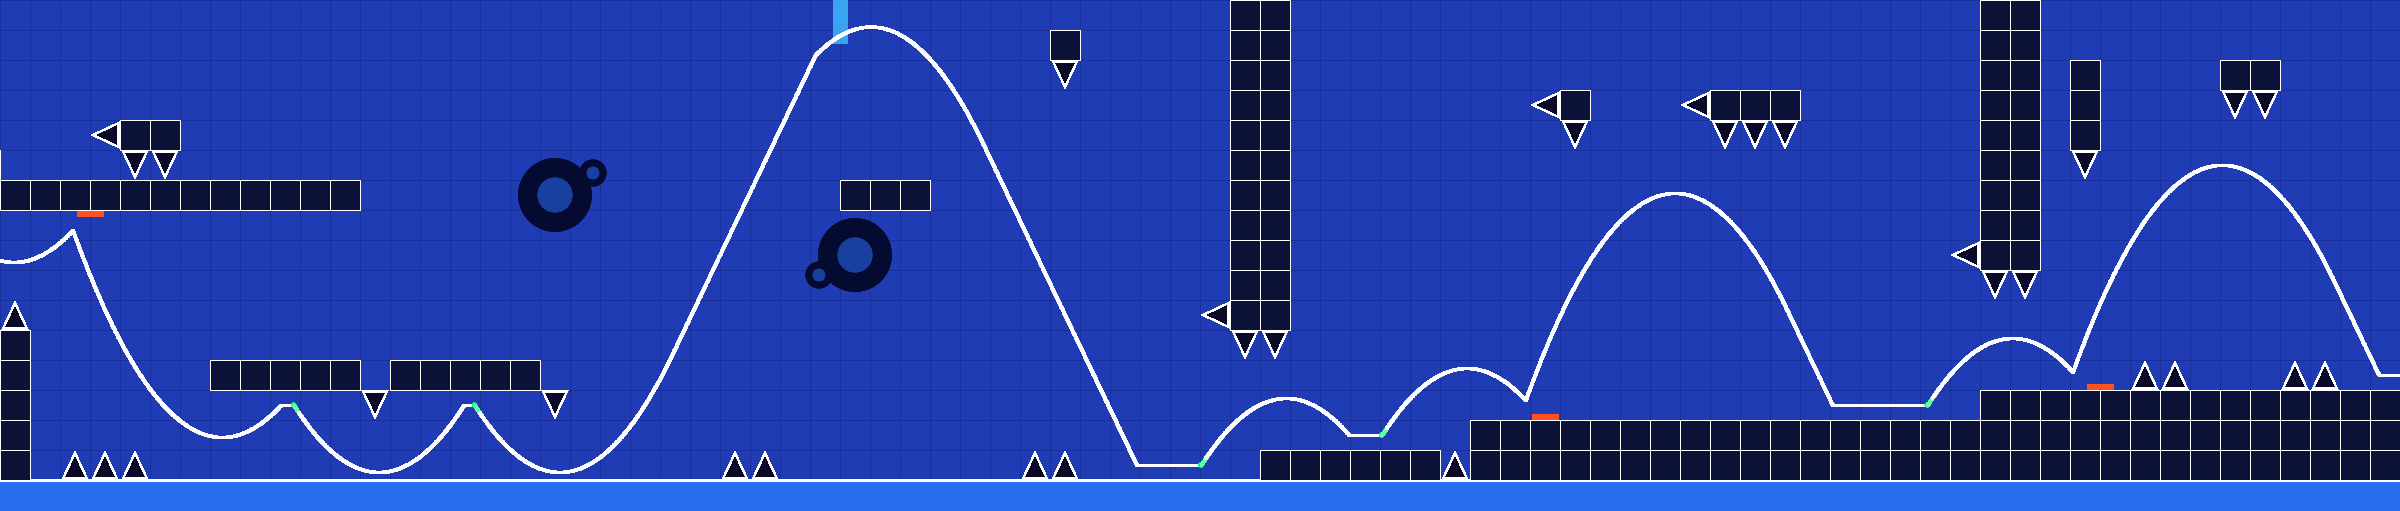
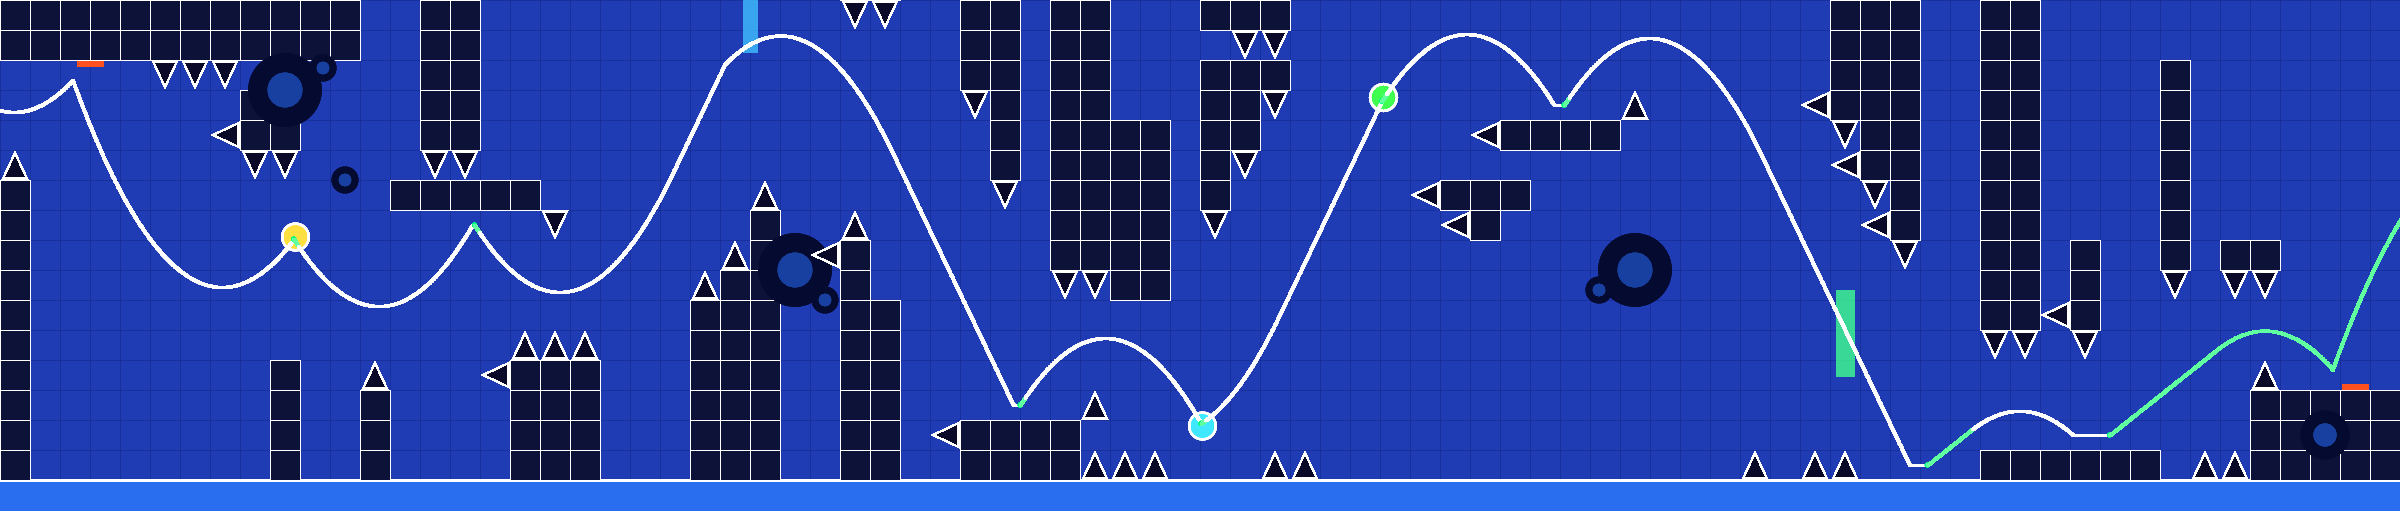
Harder and tighter, like the reference layouts
- walls that follow the path: pillars hanging from the top and rising from the floor, broken
  into 1-3 wide columns with gaps, each ending right at the reserved space with a spike tip
- timing windows per difficulty about 25% tighter; automatic difficulty around Insane to Easy
  Demon (was Harder)
- saws may cut into walls but are never buried in them
- gallery regenerated (14 levels, all beatable)

Claude-Session: https://claude.ai/code/session_01KAvSEZ8o97cfyu2hypAf3n

diff --git a/core/src/gen/structures.cpp b/core/src/gen/structures.cpp
@@ -141,6 +141,7 @@ private:
     bool tryKill(size_t clickIndex, const std::vector<Sample>& skip, const std::vector<bot::InputEvent>& ev, int horizon);
     void frame();
     void clusters();
+    void walls();
     void edgeSpikes();
     // spikes along a run of free cells (same row, consecutive columns): groups of 1-3 with gaps,
     // as layouts place them (never a long identical row)
@@ -236,6 +237,8 @@ bool Structurer::hazardFree(const LevelObject& o) const {
     if (so.kind == level::Kind::Saw) hh = hw;
     Box b{so.x - hw, so.y - hh, so.x + hw, so.y + hh};
     if (m_env.hits(b, m_margin + 1)) return false;
+    // a saw may cut into a wall, but its centre stays in the open (not buried in the blocks)
+    if (so.kind == level::Kind::Saw && m_res.cells.filled(int(std::floor(so.x / kCell)), int(std::floor(so.y / kCell)))) return false;
     // keep the path's orbs, pads and portals readable
     for (auto& po : m_path.objects)
         if (std::fabs(po.o.x - o.x) < 36 && std::fabs(po.o.y - o.y) < 36) return false;
@@ -516,6 +519,70 @@ void Structurer::clusters() {
     }
 }
 
+// Walls that follow the path, the backbone of most layouts: pillars hanging from the top and
+// rising from the floor, broken into columns 1-3 wide with gaps, each column ending right at the
+// reserved space (so the walls step along with the path), spike tips pointing at the player.
+void Structurer::walls() {
+    if (m_nominal.empty()) return;
+    const int cFirst = int(std::floor(m_nominal.front().x / kCell)) + 4;
+    const int cLast = int(std::floor(m_nominal.back().x / kCell)) - 2;
+    size_t si = 0;
+    auto sampleAt = [&](int cx) -> const Sample& {
+        while (si + 1 < m_nominal.size() && m_nominal[si].x < (cx + 0.5f) * kCell) ++si;
+        return m_nominal[si];
+    };
+    // the reserved space around column x (with its neighbours: the wall keeps its distance)
+    auto band = [&](int x, float& lo, float& hi) {
+        lo = 1e9f;
+        hi = -1e9f;
+        bool any = false;
+        for (int c = x - 1; c <= x + 1; ++c) {
+            float a, b;
+            if (m_env.range(c, a, b)) { lo = std::min(lo, a); hi = std::max(hi, b); any = true; }
+        }
+        return any;
+    };
+    int cx = cFirst;
+    while (cx < cLast) {
+        const Sample& q = sampleAt(cx);
+        const double t = double(si + 1) / phys::kTPS;
+        const float dens = std::clamp(m_density * (0.6f + 0.8f * intensityAt(t)), 0.05f, 1.0f);
+        Rng r = at(cx, 0x3A11);
+        const int width = 1 + int(r.below(3));
+        const int gapAfter = 1 + int(r.below(dens > 0.7f ? 2 : 3));
+        if (!r.chance(0.35 + 0.6 * double(dens))) { cx += width + gapAfter; continue; }
+        const int floorRow = q.bounded ? int(std::lround(q.floorY / kCell)) : 0;
+        const int ceilRow = q.bounded ? int(std::lround(q.ceilY / kCell)) - 1 : kTopRow;
+        float lo0, hi0;
+        if (!band(cx, lo0, hi0)) { cx += 1; continue; }
+        // the top of a ground stretch: the walls hang from a few rows over the path (off screen)
+        const int topRow = q.bounded ? ceilRow : std::min(kTopRow, int(std::ceil(hi0 / kCell)) + 5 + int(r.below(4)));
+        const bool top = r.chance(0.55 + 0.35 * double(dens));
+        const bool bottom = r.chance(0.45 + 0.4 * double(dens));
+        const bool spikes = r.chance(0.6 + 0.35 * double(dens));
+        bool placed = false;
+        for (int x = cx; x < cx + width; ++x) {
+            float lo, hi;
+            if (!band(x, lo, hi)) continue;
+            if (top) {
+                // from the top down to the reserved space (one row left for the spike tip)
+                const int nearRow = int(std::ceil((hi + m_margin) / kCell)) + (spikes ? 1 : 0);
+                int y = topRow, last = -1;
+                for (; y >= nearRow && cellFree(x, y); --y) { addCell(x, y); last = y; placed = true; }
+                if (last >= 0 && last == nearRow && spikes) spikeAt(x, last - 1, 180, 0);
+            }
+            if (bottom) {
+                const int nearRow = int(std::floor((lo - m_margin) / kCell)) - 1 - (spikes ? 1 : 0);
+                int y = floorRow, last = -1;
+                for (; y <= nearRow && cellFree(x, y); ++y) { addCell(x, y); last = y; placed = true; }
+                if (last >= 0 && last == nearRow && spikes) spikeAt(x, last + 1, 0, 0);
+            }
+        }
+        if (placed) ++m_res.pillars;
+        cx += width + gapAfter;
+    }
+}
+
 bool Structurer::spikeAt(int cx, int cy, double rot, double near) {
     if (cy < 0 || cy > kTopRow || m_res.cells.filled(cx, cy) || m_platforms.filled(cx, cy)) return false;
     if (m_hazardCells.count({cx, cy})) return false;
@@ -742,6 +809,7 @@ StructureResult Structurer::run() {
     if (m_prm.necessity) necessity();
     else for (auto& c : m_path.clicks) m_res.checks.push_back({c.click, false, 0, 0});
     corridors();
+    walls();
     frame();
     clusters();
     edgeSpikes();

diff --git a/core/src/gen/options.cpp b/core/src/gen/options.cpp
@@ -38,16 +38,17 @@ const char* styleName(Style s) {
 
 static const DifficultyProfile kProfiles[10] = {
     //  calm  intense  window  clear  gap   spikes orbs  triple speed
-    {0.55f, 1.10f, 230.f, 48.f, 0.44f, 1, false, false, 0.0f},  // Easy
-    {0.70f, 1.45f, 200.f, 40.f, 0.40f, 2, true, false, 0.1f},   // Normal
-    {0.85f, 1.85f, 170.f, 34.f, 0.32f, 2, true, false, 0.2f},   // Hard
-    {1.00f, 2.30f, 145.f, 28.f, 0.26f, 3, true, true, 0.35f},   // Harder
-    {1.20f, 2.90f, 125.f, 23.f, 0.21f, 3, true, true, 0.5f},    // Insane
-    {1.45f, 3.40f, 108.f, 19.f, 0.18f, 3, true, true, 0.6f},    // Easy demon
-    {1.70f, 4.00f, 93.f, 15.f, 0.15f, 3, true, true, 0.7f},     // Medium demon
-    {2.00f, 4.70f, 78.f, 12.f, 0.13f, 3, true, true, 0.8f},     // Hard demon
-    {2.30f, 5.60f, 63.f, 9.f, 0.11f, 3, true, true, 0.9f},      // Insane demon
-    {2.70f, 6.80f, 48.f, 6.f, 0.09f, 3, true, true, 1.0f},      // Extreme demon
+    // timing windows as in real levels of each rating (structures right up to the path)
+    {0.55f, 1.10f, 180.f, 40.f, 0.44f, 1, false, false, 0.0f},  // Easy
+    {0.70f, 1.45f, 150.f, 32.f, 0.40f, 2, true, false, 0.1f},   // Normal
+    {0.85f, 1.85f, 125.f, 26.f, 0.32f, 2, true, false, 0.2f},   // Hard
+    {1.00f, 2.30f, 105.f, 20.f, 0.26f, 3, true, true, 0.35f},   // Harder
+    {1.20f, 2.90f, 88.f, 16.f, 0.21f, 3, true, true, 0.5f},     // Insane
+    {1.45f, 3.40f, 74.f, 13.f, 0.18f, 3, true, true, 0.6f},     // Easy demon
+    {1.70f, 4.00f, 62.f, 10.f, 0.15f, 3, true, true, 0.7f},     // Medium demon
+    {2.00f, 4.70f, 52.f, 8.f, 0.13f, 3, true, true, 0.8f},      // Hard demon
+    {2.30f, 5.60f, 42.f, 6.f, 0.11f, 3, true, true, 0.9f},      // Insane demon
+    {2.70f, 6.80f, 33.f, 4.f, 0.09f, 3, true, true, 1.0f},      // Extreme demon
 };
 
 const DifficultyProfile& profile(Difficulty d) {

diff --git a/core/src/gen/plan.cpp b/core/src/gen/plan.cpp
@@ -51,8 +51,9 @@ float resolveDifficulty(const audio::MusicAnalysis& A, const GenOptions& opt) {
     for (auto& s : A.sections) { energy += s.energy * s.duration(); dur += s.duration(); }
     energy = dur > 0 ? energy / dur : 0.5;
     double bpm = A.mainBpm();
-    double d = 3.4 + 2.0 * (energy - 0.5) + std::clamp((bpm - 130.0) / 40.0, -0.8, 1.0);
-    return float(std::clamp(d, 1.5, 6.0));
+    // layouts people make and share are mostly Insane to demon level
+    double d = 4.6 + 2.0 * (energy - 0.5) + std::clamp((bpm - 130.0) / 40.0, -0.8, 1.0);
+    return float(std::clamp(d, 2.5, 7.0));
 }
 
 Style resolveStyle(const audio::MusicAnalysis& A, const GenOptions& opt, Rng& rng) {

diff --git a/docs/GALLERY.md b/docs/GALLERY.md
@@ -10,8 +10,8 @@ white (green while the button is held). Each image is the whole level, wrapped i
 `alcli generate demo --variant-seed 7 --difficulty 4`
 
 ```
-BEATABLE (bot verified) | 309 clicks (252 forced, 4 dropped) | windows: min 100 ms, mean 207 ms
-longest gap without input: 2.34 s at 43.4 s | music alignment 94% | difficulty follows music: r = 0.67
+BEATABLE (bot verified) | 309 clicks (271 forced, 4 dropped) | windows: min 96 ms, mean 163 ms
+longest gap without input: 2.34 s at 43.4 s | music alignment 94% | difficulty follows music: r = 0.64
 ```
 
 ![demo_auto](gallery/demo_auto.png)
@@ -21,8 +21,8 @@ longest gap without input: 2.34 s at 43.4 s | music alignment 94% | difficulty f
 `alcli generate demo --variant-seed 3 --difficulty 0`
 
 ```
-BEATABLE (bot verified) | 141 clicks (98 forced, 3 dropped) | windows: min 138 ms, mean 398 ms
-longest gap without input: 6.08 s at 74.8 s | music alignment 98% | difficulty follows music: r = 0.57
+BEATABLE (bot verified) | 141 clicks (110 forced, 3 dropped) | windows: min 50 ms, mean 320 ms
+longest gap without input: 6.08 s at 74.8 s | music alignment 98% | difficulty follows music: r = 0.60
 ```
 
 ![demo_easy](gallery/demo_easy.png)
@@ -32,7 +32,7 @@ longest gap without input: 6.08 s at 74.8 s | music alignment 98% | difficulty f
 `alcli generate demo --variant-seed 5 --difficulty 9`
 
 ```
-BEATABLE (bot verified) | 477 clicks (467 forced, 3 dropped) | windows: min 50 ms, mean 97 ms
+BEATABLE (bot verified) | 477 clicks (467 forced, 3 dropped) | windows: min 46 ms, mean 69 ms
 longest gap without input: 1.41 s at 139.5 s | music alignment 82% | difficulty follows music: r = 0.79
 ```
 
@@ -43,8 +43,8 @@ longest gap without input: 1.41 s at 139.5 s | music alignment 82% | difficulty 
 `alcli generate demo --variant-seed 11 --difficulty 3 --style 5 --modes 0`
 
 ```
-BEATABLE (bot verified) | 219 clicks (191 forced, 0 dropped) | windows: min 108 ms, mean 201 ms
-longest gap without input: 2.34 s at 43.8 s | music alignment 96% | difficulty follows music: r = 0.74
+BEATABLE (bot verified) | 219 clicks (207 forced, 0 dropped) | windows: min 79 ms, mean 164 ms
+longest gap without input: 2.34 s at 43.8 s | music alignment 96% | difficulty follows music: r = 0.72
 ```
 
 ![demo_retro_cube](gallery/demo_retro_cube.png)
@@ -54,7 +54,7 @@ longest gap without input: 2.34 s at 43.8 s | music alignment 96% | difficulty f
 `alcli generate demo --variant-seed 2 --difficulty 4 --style 1`
 
 ```
-BEATABLE (bot verified) | 297 clicks (252 forced, 1 dropped) | windows: min 88 ms, mean 206 ms
+BEATABLE (bot verified) | 297 clicks (271 forced, 2 dropped) | windows: min 88 ms, mean 160 ms
 longest gap without input: 2.34 s at 43.4 s | music alignment 95% | difficulty follows music: r = 0.70
 ```
 
@@ -65,8 +65,8 @@ longest gap without input: 2.34 s at 43.4 s | music alignment 95% | difficulty f
 `alcli generate demo --variant-seed 7 --difficulty 4 --engine 1`
 
 ```
-BEATABLE (bot verified) | 307 clicks (256 forced, 6 dropped) | windows: min 117 ms, mean 233 ms
-longest gap without input: 2.80 s at 74.3 s | music alignment 92% | difficulty follows music: r = 0.63
+BEATABLE (bot verified) | 307 clicks (276 forced, 5 dropped) | windows: min 88 ms, mean 202 ms
+longest gap without input: 2.80 s at 74.3 s | music alignment 92% | difficulty follows music: r = 0.58
 ```
 
 ![demo_classic](gallery/demo_classic.png)
@@ -76,7 +76,7 @@ longest gap without input: 2.80 s at 74.3 s | music alignment 92% | difficulty f
 `alcli generate demo --variant-seed 9 --difficulty 5 --switch 0.15`
 
 ```
-BEATABLE (bot verified) | 351 clicks (298 forced, 1 dropped) | windows: min 50 ms, mean 184 ms
+BEATABLE (bot verified) | 351 clicks (317 forced, 1 dropped) | windows: min 46 ms, mean 139 ms
 longest gap without input: 2.34 s at 88.4 s | music alignment 92% | difficulty follows music: r = 0.78
 ```
 
@@ -88,8 +88,8 @@ longest gap without input: 2.34 s at 88.4 s | music alignment 92% | difficulty f
 
 ```
 recording: 276 clicks: 100% on the music (mean offset 9 ms, your latency +23 ms removed), 8 holds, 15 doubles, 2 streams, 3 motifs
-BEATABLE (bot verified) | 276 clicks (184 forced, 1 dropped) | windows: min 88 ms, mean 210 ms
-longest gap without input: 2.48 s at 0.0 s | music alignment 78% | difficulty follows music: r = 0.57
+BEATABLE (bot verified) | 276 clicks (209 forced, 2 dropped) | windows: min 88 ms, mean 162 ms
+longest gap without input: 2.48 s at 0.0 s | music alignment 78% | difficulty follows music: r = 0.54
 ```
 
 ![demo_recording](gallery/demo_recording.png)
@@ -99,7 +99,7 @@ longest gap without input: 2.48 s at 0.0 s | music alignment 78% | difficulty fo
 `alcli generate random:17 --variant-seed 17 --difficulty 6`
 
 ```
-BEATABLE (bot verified) | 260 clicks (194 forced, 0 dropped) | windows: min 62 ms, mean 163 ms
+BEATABLE (bot verified) | 260 clicks (221 forced, 0 dropped) | windows: min 62 ms, mean 113 ms
 longest gap without input: 1.71 s at 48.1 s | music alignment 92% | difficulty follows music: r = 0.80
 ```
 
@@ -110,8 +110,8 @@ longest gap without input: 1.71 s at 48.1 s | music alignment 92% | difficulty f
 `alcli generate random:23 --variant-seed 23 --difficulty 2 --modes 1,3,4,7`
 
 ```
-BEATABLE (bot verified) | 380 clicks (276 forced, 0 dropped) | windows: min 158 ms, mean 288 ms
-longest gap without input: 3.19 s at 7.8 s | music alignment 100% | difficulty follows music: r = 0.71
+BEATABLE (bot verified) | 380 clicks (301 forced, 0 dropped) | windows: min 133 ms, mean 228 ms
+longest gap without input: 3.19 s at 7.8 s | music alignment 100% | difficulty follows music: r = 0.72
 ```
 
 ![random_song_23](gallery/random_song_23.png)
@@ -121,8 +121,8 @@ longest gap without input: 3.19 s at 7.8 s | music alignment 100% | difficulty f
 `alcli generate demo --variant-seed 3 --modes 0,5 --crop 1800:4200`
 
 ```
-BEATABLE (bot verified) | 282 clicks (241 forced, 0 dropped) | windows: min 92 ms, mean 205 ms
-longest gap without input: 2.35 s at 95.9 s | music alignment 95% | difficulty follows music: r = 0.69
+BEATABLE (bot verified) | 342 clicks (310 forced, 0 dropped) | windows: min 79 ms, mean 136 ms
+longest gap without input: 2.33 s at 74.8 s | music alignment 92% | difficulty follows music: r = 0.76
 ```
 
 ![closeup_cube_robot](gallery/closeup_cube_robot.png)
@@ -132,8 +132,8 @@ longest gap without input: 2.35 s at 95.9 s | music alignment 95% | difficulty f
 `alcli generate demo --variant-seed 3 --modes 1 --crop 3000:5400`
 
 ```
-BEATABLE (bot verified) | 282 clicks (203 forced, 0 dropped) | windows: min 121 ms, mean 227 ms
-longest gap without input: 2.35 s at 95.9 s | music alignment 95% | difficulty follows music: r = 0.69
+BEATABLE (bot verified) | 342 clicks (260 forced, 0 dropped) | windows: min 96 ms, mean 143 ms
+longest gap without input: 2.33 s at 74.8 s | music alignment 92% | difficulty follows music: r = 0.76
 ```
 
 ![closeup_ship](gallery/closeup_ship.png)
@@ -143,8 +143,8 @@ longest gap without input: 2.35 s at 95.9 s | music alignment 95% | difficulty f
 `alcli generate demo --variant-seed 3 --modes 4 --crop 3000:5400`
 
 ```
-BEATABLE (bot verified) | 282 clicks (230 forced, 0 dropped) | windows: min 112 ms, mean 195 ms
-longest gap without input: 2.35 s at 95.9 s | music alignment 95% | difficulty follows music: r = 0.70
+BEATABLE (bot verified) | 342 clicks (329 forced, 0 dropped) | windows: min 88 ms, mean 135 ms
+longest gap without input: 2.33 s at 74.8 s | music alignment 92% | difficulty follows music: r = 0.74
 ```
 
 ![closeup_wave](gallery/closeup_wave.png)
@@ -154,8 +154,8 @@ longest gap without input: 2.35 s at 95.9 s | music alignment 95% | difficulty f
 `alcli generate random:7 --variant-seed 11 --crop 9000:11400`
 
 ```
-BEATABLE (bot verified) | 155 clicks (124 forced, 1 dropped) | windows: min 108 ms, mean 210 ms
-longest gap without input: 2.54 s at 32.7 s | music alignment 96% | difficulty follows music: r = 0.80
+BEATABLE (bot verified) | 188 clicks (179 forced, 0 dropped) | windows: min 79 ms, mean 122 ms
+longest gap without input: 2.11 s at 33.1 s | music alignment 92% | difficulty follows music: r = 0.79
 ```
 
 ![closeup_ball_orbs](gallery/closeup_ball_orbs.png)

diff --git a/docs/GENERATOR_V2.md b/docs/GENERATOR_V2.md
@@ -34,6 +34,10 @@ switch on the drop and speed up). The mode is chosen for the click rhythm: fast 
 wave/ship/swing, spaced clicks cube/robot/ball/ufo, long notes holds.
 
 ## Structures (modelled on reference layouts)
+- walls that follow the path, the backbone of most layouts: pillars hanging from the top and
+  rising from the floor, broken into columns 1-3 wide with gaps. Each column ends right at the
+  reserved space, so the walls step along with the path, and has a spike tip pointing at the
+  player.
 - small block groups floating next to the path, above or below it: a hanging block with a spike
   under it, slabs of 2-4 with a spike at one or both ends, 2x2 blocks, T shapes, steps, short
   columns with a spike tip. Now and then there is a spike on the front, pointing at the player.
@@ -42,7 +46,8 @@ wave/ship/swing, spaced clicks cube/robot/ball/ufo, long notes holds.
   more densely.
 - hanging pillars (from the top) and rising pillars (from the floor) with spike tips, over jump
   apexes and under the path
-- saw clusters in the pockets next to the path
+- saw clusters in the pockets next to the path (a saw may cut into a wall, but it is never buried
+  in it)
 - wave/ship corridors: top and bottom walls following the path with 45° slopes (the wave's are
   sharp triangles)
 - spikes in groups of 1-3 with gaps, never long identical rows. Spikes only go on faces that

diff --git a/changelog.md b/changelog.md
@@ -7,3 +7,4 @@
 - Recordings: the level ends after the last click; applying a layout sets the song offset it was built for; playtests started mid-level are synced to the song's real position; strict faithfulness is the default.
 - A take that starts late in the song makes a level that starts shortly before the first click (song offset), not after a long empty run.
 - Gameplay modelled on reference layouts: block look by default (platforms too), floating block groups (hanging blocks with spikes, slabs, T shapes, steps, columns), spikes in groups of 1-3 facing the path, denser framing in flying stretches.
+- Harder and tighter, like real layouts: walls that follow the path (hanging and rising pillars with spike tips), timing windows per difficulty about 25% tighter, automatic difficulty around Insane to Easy Demon.
